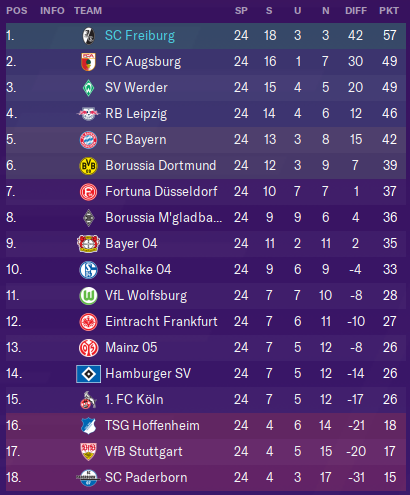
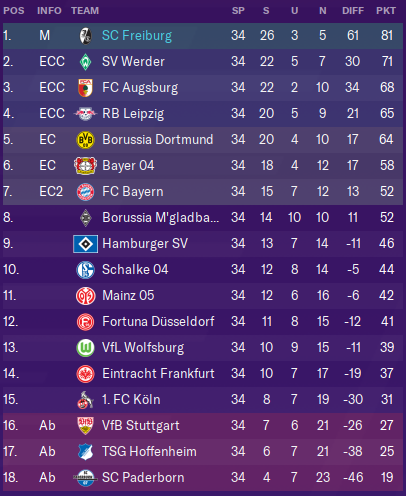
updated to end of season 25/26

diff --git a/index.html b/index.html
@@ -36,16 +36,16 @@
       <div class="grid2x2 grid3x1">
         <div class="bl-table">
           <h3>Bundesliga</h3>
-          <img src="./images/table_curr_bl.png?lastmod=09122021" alt="current bundesliga table 2024/2025">
+          <img src="./images/table_curr_bl.png?lastmod=24122021" alt="current bundesliga table 2024/2025">
         </div>
         <div class="cl-table">
           <h3>Champions League</h3>
-          <img class="table-image" src="./images/cl-table-1.png?lastmod=10122021" alt="current champions league table 2024/2025">
-          <img class="table-image" src="./images/cl-table-2.png?lastmod=09122021" alt="current champions league table 2024/2025">
+          <img class="table-image" src="./images/cl-table-1.png?lastmod=24122021" alt="current champions league table 2024/2025">
+          <img class="table-image" src="./images/cl-table-2.png?lastmod=24122021" alt="current champions league table 2024/2025">
         </div>
         <div class="el-table">
           <h3>Europa League</h3>
-          <img class="table-image" src="./images/el-table.png?lastmod=09122021" alt="current europa league table 2024/2025">
+          <img class="table-image" src="./images/el-table.png?lastmod=24122021" alt="current europa league table 2024/2025">
         </div>
       </div>
       <div class="centered-div" style="margin: 3rem 0rem;">
